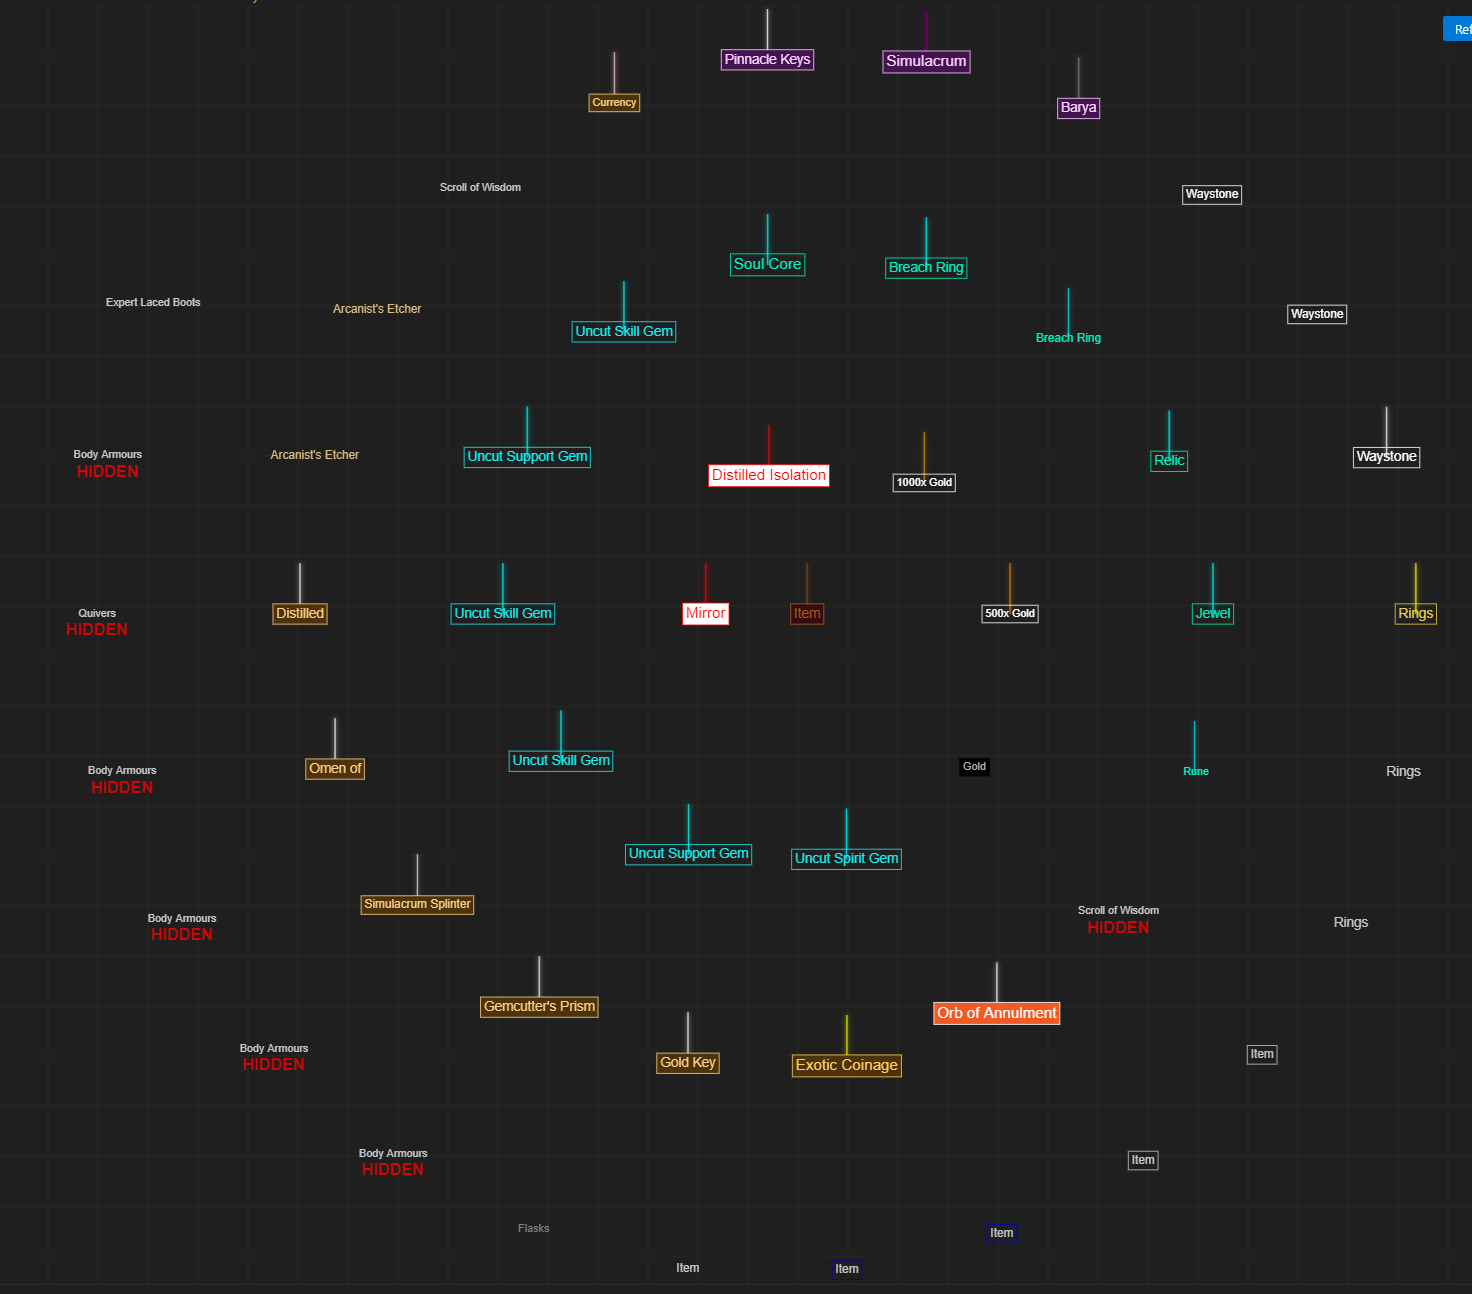
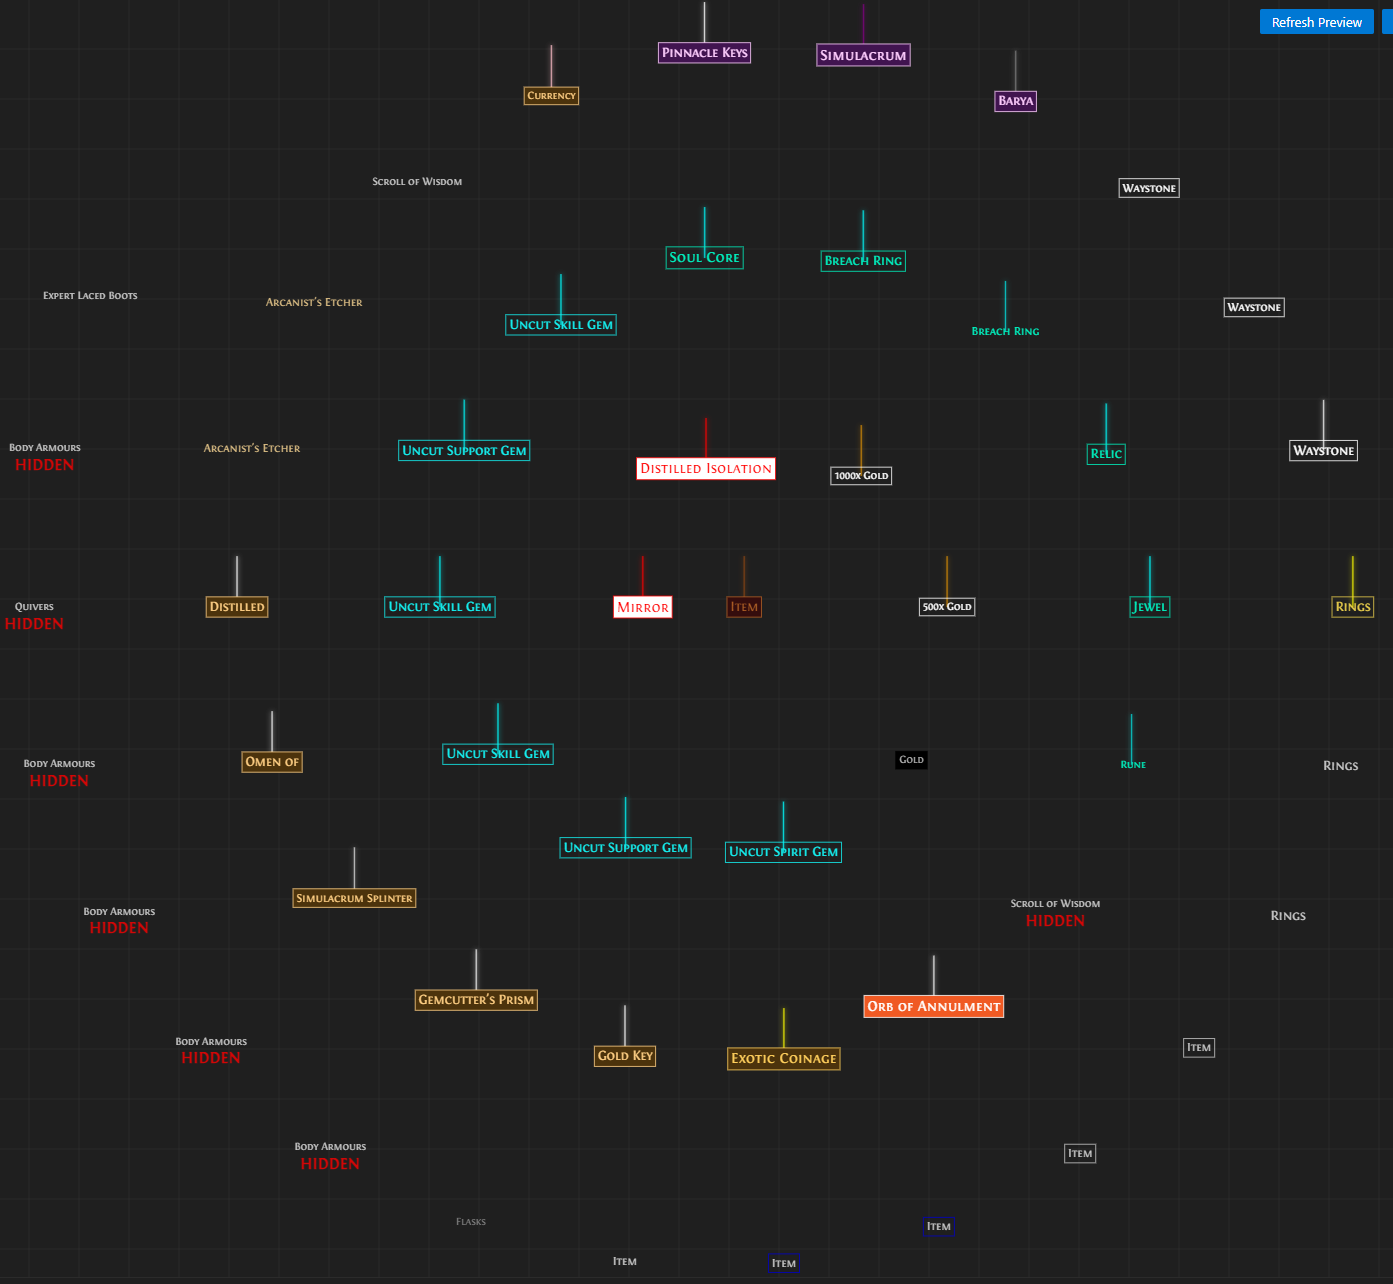
✨ feat: add Fontin SmallCaps font support for preview
- Add font fallback stack for better cross-platform support
- Update README with font installation instructions
- Improve preview text rendering with PoE's official font

diff --git a/src/preview/FilterPreviewEditor.ts b/src/preview/FilterPreviewEditor.ts
@@ -125,6 +125,15 @@ export class FilterPreviewEditor
     //   console.log(`${item.name}:`, JSON.stringify(item, null, 2));
     // });
 
+    const fontFace = `
+      <style>
+        @font-face {
+          font-family: 'Fontin SmallCaps';
+          src: local('Fontin SmallCaps');
+        }
+      </style>
+    `;
+
     return `<!DOCTYPE html>
       <html>
         <head>
@@ -137,6 +146,7 @@ export class FilterPreviewEditor
             <button id="showSampleItems">Show Sample Items</button>
           </div>
           <canvas id="filterPreview"></canvas>
+          ${fontFace}
           <script>
             const vscode = acquireVsCodeApi();
             const canvas = document.getElementById('filterPreview');
@@ -213,7 +223,7 @@ export class FilterPreviewEditor
               
               // Calculate text metrics (used for background and border)
               const fontSize = (item.fontSize || 32) * camera.zoom;
-              ctx.font = \`\${fontSize}px Arial\`;
+              ctx.font = \`\${fontSize}px "Fontin SmallCaps", Arial\`;
               ctx.textAlign = 'center';
               ctx.textBaseline = 'middle';
               const metrics = ctx.measureText(item.name);
@@ -245,7 +255,7 @@ export class FilterPreviewEditor
               // Draw HIDDEN indicator
               if (item.hidden) {
                 const hiddenFontSize = (item.fontSize || 32) * camera.zoom * 1.5;
-                ctx.font = \`bold \${hiddenFontSize}px Arial\`;
+                ctx.font = \`bold \${hiddenFontSize}px "Fontin SmallCaps", Arial\`;
                 ctx.fillStyle = 'rgba(255, 0, 0, 0.8)';
                 ctx.fillText('HIDDEN', x, y + textHeight/2 + padding + hiddenFontSize/2);
               }
@@ -419,7 +429,7 @@ export class FilterPreviewEditor
               
               // Calculate text metrics for hit testing
               const fontSize = (item.fontSize || 32) * camera.zoom;
-              ctx.font = \`\${fontSize}px Arial\`;
+              ctx.font = \`\${fontSize}px "Fontin SmallCaps", Arial\`;
               const metrics = ctx.measureText(item.name);
               const padding = 10 * camera.zoom;
               

diff --git a/README.md b/README.md
@@ -50,6 +50,19 @@ To open the Live Filter Preview:
 - Use the command palette (Ctrl/Cmd+Shift+P) and search for "Show Filter Preview"
 - Right-click the file in the explorer and select "Show Filter Preview"
 
+#### Font Setup (Optional)
+
+For the most authentic Path of Exile look, you can install the Fontin font family:
+
+1. Visit [exljbris Font Foundry](https://www.exljbris.com/fontin.html)
+2. Scroll to the "Fontin" section
+3. Download and install the font for your operating system:
+   - Mac users: Download the Type1 version
+   - Windows users: Download the TTF version
+   - For OpenType support: Download the OpenType version
+
+If Fontin is not installed, the preview will fall back to Arial, Helvetica Neue, or your system's default sans-serif font.
+
 Features:
 
 - Real-time updates as you edit your filter
